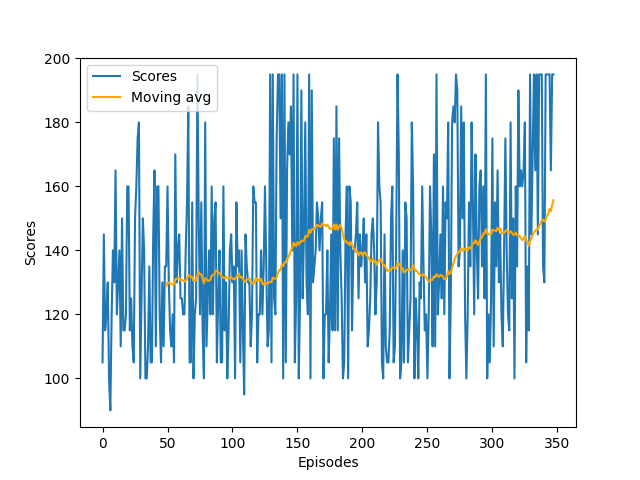
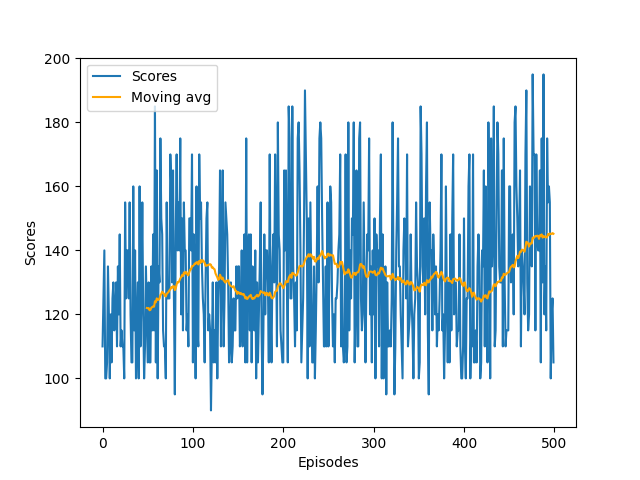
PPO training implemented

diff --git a/modules/rl/agent_ppo.py b/modules/rl/agent_ppo.py
@@ -1,5 +1,6 @@
 from collections import deque
 from modules.rl.neural import ActorCritic
+from modules.managers.gamemodes import ACTIONS
 import numpy as np
 import torch
 import random
@@ -28,7 +29,7 @@ CLIP_PARAM = 0.2            # clipping parameter for PPO surrogate
 
 # Training Constants
 NUM_STEPS_PER_ENV = 1024    # num of transitions we sample for each training iter
-MINIBATCH_SIZE = 128			# minibatch size 
+MINIBATCH_SIZE = 128		# minibatch size 
 EPOCHS = 8				    # optimize surrogate loss with K epochs  
 
 GRADIENT_CLIPPING = 2       # gradient clipping norm
@@ -38,93 +39,82 @@ GRADIENT_CLIPPING = 2       # gradient clipping norm
 GAMMA = 0.999               # discount factor for returns
 TAU = 0.95					# gae (generalized advantage estimation) param
 
-BASELINE = 0 #130
+BASELINE = 0 #reward structure is too sparse
+
+SELF_PLAY = True
 
 
-class Agent(): 
+class Agent_PPO(): 
 
     def __init__(self, state_size, action_size, load_pretrained=False):
         self.state_size = state_size
         self.action_size = action_size
+
+        self.action_set = list(ACTIONS.keys())
 
         self.ac_model = ActorCritic(state_size, action_size, HIDDEN_SIZE)
         self.ac_model_optim = optim.Adam(self.ac_model.parameters(), lr=LR)
         random.seed(SEED)
 
         self.use_cuda = torch.cuda.is_available()
-        
-        print('Number of trainable actor critic model parameters: ', \
-        	self.count_parameters())
 
         if load_pretrained:
-            print('Loading pre-trained actor critic model from checkpoint.')
-            self.ac_model.load_state_dict(torch.load("checkpoints/ac_model.pth", map_location=torch.device(DEVICE)))
+            # print('Loading pre-trained actor critic model from checkpoint.')
+            self.ac_model.load_state_dict(torch.load("checkpoints/bot_ac_model.pth", map_location=torch.device(DEVICE)))
 
 
     def count_parameters(self):
         return sum(p.numel() for p in self.ac_model.parameters() if p.requires_grad)
 
 
-    def act(self, env):
-        """ Run current action policy and check which score it is reaching.
-        """
-        # env_info = env.reset(train_mode=True)
-        # states = env_info.vector_observations
-        # states1 = states[0]
-        # states2 = states[1]
-        
-        state = torch.FloatTensor(state).cuda() if self.use_cuda else torch.FloatTensor(env.reset())
+    def act(self, state, both=False):
+        state = torch.FloatTensor(state).cuda() if self.use_cuda else torch.FloatTensor(state)
         state = state.unsqueeze(0)
-        action_set = env.action_set
+
+        with torch.no_grad(): 
+            mario_actions,log_probs1, _, values1 = self.ac_model(state) 
+            mario_action = torch.argmax(mario_actions, axis=1)[0].item()
+            if not SELF_PLAY:
+                mario_action = random.randint(0, self.action_size-1)
+
+            luigi_actions,log_probs1, _, values1 = self.ac_model(state)
+            luigi_action = torch.argmax(luigi_actions, axis=1).item()
+
+        actions = [self.action_set[mario_action], self.action_set[luigi_action]]
+        if both:
+          return actions
+
+        return actions[1]
+
+    def act_episode(self, env):
+        """ Run current action policy and check which score it is reaching.
+        """  
+        state = env.reset()
 
         scores = np.zeros(2)
         self.ac_model.eval()
 
-        while True:
-            with torch.no_grad():
-                # self-play: the same actor critic model is used for two players
-                
-                mario_actions, _, _, _ = self.ac_model(state) 
-                mario_action = torch.argmax(mario_actions, axis=1)[0].item()
-                luigi_actions, _, _, _ = self.ac_model(state)
-                luigi_action = torch.argmax(luigi_actions, axis=1).item()
+        while True: 
 
-            actions = [action_set[mario_action], action_set[luigi_action]]
-
-
-            # env_info =env.step(actions)
-            # next_states = env_info.vector_observations
-            # dones = env_info.local_done
-            # scores += env_info.rewards
-            # states = next_states
-            # states1 = states[0]
-            # states2 = states[1]
+            actions = self.act(state,both=True)
 
             next_state, rewards, dones = env.step(actions)
 
-            scores += rewards 
-            state = torch.FloatTensor(state).cuda() if self.use_cuda else torch.FloatTensor(next_state)
-            state = state.unsqueeze(0)
+            scores += rewards  
+            state = next_state
 
             if np.any(dones):
                 break
+
         self.ac_model.train()
         return np.max(scores)
 
 
     def step(self, env):
         """ Collect trajectories/episodes and invoke learning step.
-        Params
-        ======
-            env:            unity Tennis environment 
-        """
-        # env_info = env.reset()
-        # states = env_info.vector_observations
-        # states1 = states[0]
-        # states2 = states[1]
+        """ 
         state = torch.FloatTensor(state).cuda() if self.use_cuda else torch.FloatTensor(env.reset())
-        state = state.unsqueeze(0)
-        action_set = env.action_set
+        state = state.unsqueeze(0) 
 
         trajectory1 = deque()    # trajectory of player 1
         trajectory2 = deque()    # trajectory of player 2
@@ -133,21 +123,16 @@ class Agent():
             with torch.no_grad():
                 # self-play: the same actor critic model is used for two players
                 actions1, log_probs1, _, values1 = self.ac_model(state) 
-                mario_action = torch.argmax(actions1, axis=1).item()
+                mario_action = torch.argmax(actions1, axis=1).item() 
+
+                if not SELF_PLAY:
+                    mario_action = random.randint(0, self.action_size-1)
+                
                 actions2, log_probs2, _, values2 = self.ac_model(state)
                 luigi_action = torch.argmax(actions2, axis=1).item()
  
-            # actions = torch.cat((actions1, actions2), dim=0)
-            # env_info = env.step([actions.cpu().numpy()])
 
-            # next_state = env_info.vector_observations[0]
-            # next_state = env_info.vector_observations[1]
-
-            # rewards = env_info.rewards
-            # rewards1 = np.array(rewards[0]).reshape([1])
-            # rewards2 = np.array(rewards[1]).reshape([1])
-
-            actions = [action_set[mario_action], action_set[luigi_action]]
+            actions = [self.action_set[mario_action], self.action_set[luigi_action]]
 
             next_state, rewards, done = env.step(actions)
 
@@ -178,7 +163,9 @@ class Agent():
         trajectory2.append([state, pending_value2, None, None, None, None])
 
         # self-play: the same actor critic model is used for two players
-        self.learn(trajectory1, pending_value1)
+        if SELF_PLAY:
+            self.learn(trajectory1, pending_value1)
+
         self.learn(trajectory2, pending_value2)
 
         trajectory1.clear()
@@ -186,11 +173,7 @@ class Agent():
 
 
     def learn(self, trajectory, pending_value):
-        """ Make PPO learning step. 
-        Params
-        ======
-            trajectory:     trajectory/episode
-            pending_value:  pendig critic value from last state
+        """ Make PPO learning step.  
         """
         storage = deque()
         advantages = torch.Tensor(np.zeros((1, 1)))
@@ -213,13 +196,12 @@ class Agent():
         states, actions, log_probs_old, returns, advantages = map(lambda x: torch.cat(x, dim=0), zip(*storage))
         advantages = (advantages - advantages.mean()) / advantages.std()
 
-        storage.clear()
-        # print(states.shape, actions.shape, log_probs_old.shape, returns.shape, advantages.shape)
+        storage.clear() 
         dataset = torch.utils.data.TensorDataset(states, actions, log_probs_old, returns, advantages)
         dataloader = torch.utils.data.DataLoader(dataset, batch_size=MINIBATCH_SIZE, shuffle=True)
         dataiter = iter(dataloader)
        
-        # update the actor critic modelK_EPOCHS times
+        # update the actor critic model K_EPOCHS times
         for _ in range(EPOCHS):
             # sample states, actions, log_probs_old, returns, advantages
             sampled_states, sampled_actions, sampled_log_probs_old, sampled_returns, sampled_advantages = next(dataiter)

diff --git a/ppo_training.py b/ppo_training.py
@@ -4,7 +4,7 @@ from modules.rl.env import GunGameEnv
 
 
 from collections import deque
-from modules.rl.agent_ppo import Agent
+from modules.rl.agent_ppo import Agent_PPO
 import numpy as np
 import matplotlib.pyplot as plt
 import torch
@@ -13,8 +13,10 @@ import pandas as pd
 # must be < 0.5
 SECONDS = 0.017
 
-episodes = 500
-threshold_score = 150
+SAVE_TRAINING = False
+
+episodes = 150
+threshold_score = 190
 
 # Load pygame basics to keep it from getting upset
 pygame.init()
@@ -34,7 +36,7 @@ print_every = 10
 
 def main():
     print("Start Training...")
-    agent = Agent(state_size, action_size, load_pretrained=False)
+    agent = Agent_PPO(state_size, action_size, load_pretrained=False)
     scores = run_ppo(env, agent, episodes)
     print("\nTraining finished.")
 
@@ -63,25 +65,26 @@ def main():
 
 def run_ppo(env, agent, num_episodes=100):
     scores = []
-    scores_window = deque(maxlen=100)
+    scores_window = deque(maxlen=print_every)
 
     for i_episode in range(1, num_episodes+1):
         agent.step(env)
-        max_score = agent.act(env)
+        max_score = agent.act_episode(env)
         scores.append(max_score)
         scores_window.append(max_score)
 
-        print('\r{}/{} Episode. Current score: {:.4f} Avg last 100 score: {:.4f}'.\
-            format(i_episode, num_episodes, max_score, np.mean(scores_window)), end="")
+        print('\r{}/{} Episode test score: {:.4f} Avg last {} score: {:.4f}'.\
+            format(i_episode, num_episodes, max_score, print_every, np.mean(scores_window)), end="")
         
         if i_episode % print_every == 0:
-            print('\r{}/{} Episode. Current score: {:.4f} Avg last 100 score: {:.4f}'.\
-                format(i_episode, num_episodes, max_score, np.mean(scores_window)))
+            print('\r{}/{} Episode test score: {:.4f} Avg last {} score: {:.4f}'.\
+                format(i_episode, num_episodes, max_score, print_every, np.mean(scores_window)))
 
         if np.mean(scores_window) > threshold_score:
-            agent.save()
-            print('\rEnvironment solved after {} episodes. Avg last 100 score: {:.4f}'.\
-                format(i_episode, np.mean(scores_window)))
+            if SAVE_TRAINING:
+                agent.save()
+            print('\rEnvironment solved after {} episodes. Avg last {} score: {:.4f}'.\
+                format(i_episode, print_every, np.mean(scores_window)))
             break
 
     return scores

diff --git a/modules/gameObjects/player.py b/modules/gameObjects/player.py
@@ -16,6 +16,7 @@ from typing import List
 import torch
 from pathlib import Path
 from ..rl.agent import Mario
+from ..rl.agent_ppo import Agent_PPO
 import datetime
 
 
@@ -23,6 +24,8 @@ UPDATE_SCRIPT = False
 MOST_RECENT_CHECKPOINT = "checkpoints/mario/2023-12-08T13-40-34/mario_net_91.chkpt"
 STATE_DIM = 52
 ACTION_DIM = 9
+
+RL_ALGO = None # 'PPO'
 
 save_dir = Path("checkpoints/mario") / datetime.datetime.now().strftime("%Y-%m-%dT%H-%M-%S")
 save_dir.mkdir(parents=True)
@@ -46,13 +49,20 @@ class Player(Mobile):
 
         # RL agent
         self._isBot = isBot
-        self.agent = Mario(STATE_DIM, ACTION_DIM, save_dir=Path("checkpoints/mario/2023-12-08T13-40-34"))
-        # self.net = MarioNet(STATE_DIM, ACTION_DIM).float()
-        # self.use_cuda = torch.cuda.is_available()
-        # self.action_set = list(ACTIONS.keys())
-        # if isBot:
-        #     checkpoint = Path(NN_LOAD_PATH) if os.path.exists(NN_LOAD_PATH) else None
-        #     self.load(checkpoint)
+        if self._isBot:
+            if RL_ALGO == 'DDQN':
+                self.agent = Mario(STATE_DIM, ACTION_DIM, save_dir=Path("checkpoints/mario/2023-12-08T13-40-34"))
+                # self.net = MarioNet(STATE_DIM, ACTION_DIM).float()
+                # self.use_cuda = torch.cuda.is_available()
+                # self.action_set = list(ACTIONS.keys())
+                # if isBot:
+                #     checkpoint = Path(NN_LOAD_PATH) if os.path.exists(NN_LOAD_PATH) else None
+                #     self.load(checkpoint)
+            if RL_ALGO =='PPO':
+                self.agent = Agent_PPO(STATE_DIM, ACTION_DIM, load_pretrained=True)
+
+
+
 
         self._hasGun = hasGun
         self._lives = 100 if hasGun == True else 1
@@ -74,6 +84,7 @@ class Player(Mobile):
             self._currentGun = self._guns[0]
         else:
             self._currentGun = None
+
 
         if self._isBot and not UPDATE_SCRIPT:
             f = open(os.path.join("resources", "bot_script", "moves.txt"), "r")
@@ -144,12 +155,13 @@ class Player(Mobile):
                 except:
                     action = None
 
-                self.step += 1
+                self.step += 1 
 
         try:
             action = int(action)
         except:
             action = None
+
 
         # Act according to action
         if action == 0:

diff --git a/modules/rl/neural.py b/modules/rl/neural.py
@@ -45,17 +45,20 @@ class MarioNet(nn.Module):
 class ActorCritic(nn.Module):
     """PPO"""
     def __init__(self, num_inputs, num_outputs, hidden_size, std=0.0):
-        # super(ActorCritic, self).__init__()
         super().__init__()
 
         self.actor = nn.Sequential(
             self.layer_init(nn.Linear(num_inputs, hidden_size)),
+            nn.Tanh(),
+            self.layer_init(nn.Linear(hidden_size, hidden_size)),
             nn.Tanh(),
             self.layer_init(nn.Linear(hidden_size, num_outputs)),
         )
 
         self.critic = nn.Sequential(
             self.layer_init(nn.Linear(num_inputs, hidden_size)),
+            nn.Tanh(),
+            self.layer_init(nn.Linear(hidden_size, hidden_size)),
             nn.Tanh(),
             self.layer_init(nn.Linear(hidden_size, 1), std=1.0),
         )

diff --git a/modules/managers/gameManager.py b/modules/managers/gameManager.py
@@ -214,6 +214,7 @@ class GameManager(BasicManager):
     def updateBot(self):
         if not self._gameOver:
             action_idx = self._players[1].agent.act(self.getState())
+            print(action_idx)
             self._players[1].updateBot(action_idx)
 
     # Specifically for self-play Bot training
